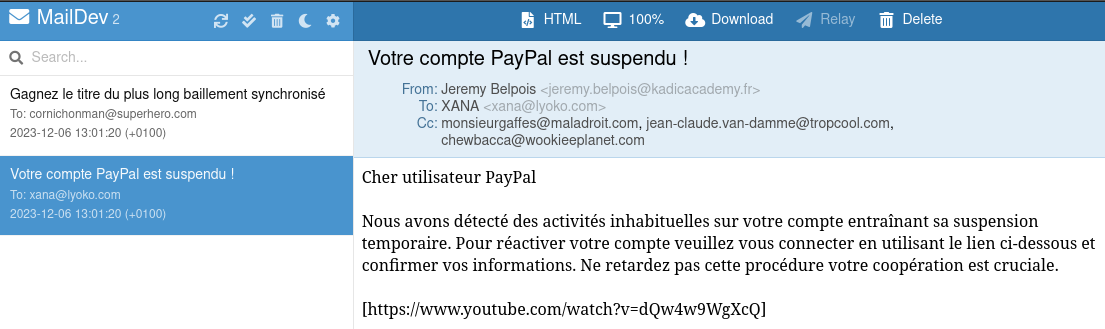
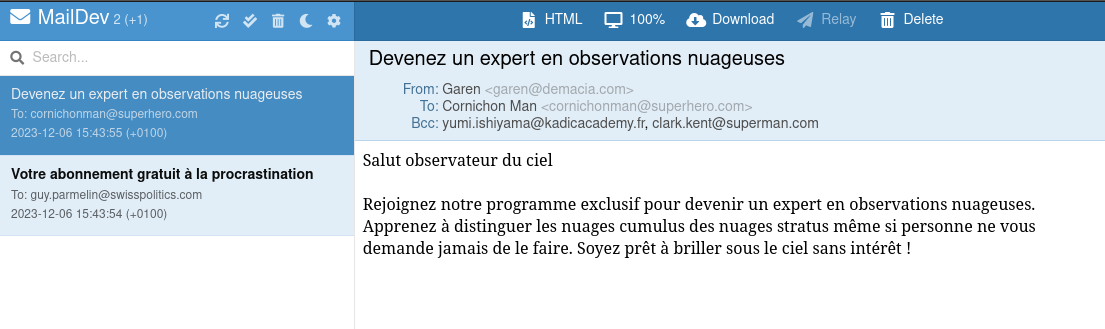
README final

diff --git a/README.md b/README.md
@@ -136,36 +136,28 @@ EHLO https://www.youtube.com/watch?v=dQw4w9WgXcQ
 250-PIPELINING
 250-8BITMIME
 250 SMTPUTF8
-MAIL FROM: <jeremy.belpois@kadicacademy.fr>
+MAIL FROM: <angelina.jolie@yahoo.com>
 
 250 Accepted
-RCPT TO: <xana@lyoko.com>
+RCPT TO: <guy.parmelin@swisspolitics.com>
 
 250 Accepted
-RCPT TO: <monsieurgaffes@maladroit.com>
-
-250 Accepted
-RCPT TO: <jean-claude.van-damme@tropcool.com>
-
-250 Accepted
-RCPT TO: <chewbacca@wookieeplanet.com>
+RCPT TO: <odd.della.robbia@kadicacademy.fr>
 
 250 Accepted
 DATA
 Content-Type: text/html; charset=UTF-8
-From: Jeremy Belpois <jeremy.belpois@kadicacademy.fr>
-To: XANA <xana@lyoko.com>
-CC: monsieurgaffes@maladroit.com
-CC: jean-claude.van-damme@tropcool.com
-CC: chewbacca@wookieeplanet.com
-Subject: Votre compte PayPal est suspendu !
+From: Angelina Jolie <angelina.jolie@yahoo.com>
+To: Guy Parmelin <guy.parmelin@swisspolitics.com>
+Subject: Votre abonnement gratuit à la procrastination
 
-Cher utilisateur PayPal<br><br>Nous avons détecté des activités inhabituelles sur votre compte entraînant sa suspension temporaire. Pour réactiver votre compte veuillez vous connecter en utilisant le lien ci-dessous et confirmer vos informations. Ne retardez pas cette procédure votre coopération est cruciale.<br><br>[https://www.youtube.com/watch?v=dQw4w9WgXcQ]
+Cher maître de la procrastination<br><br>Nous avons le plaisir de vous informer que vous avez été automatiquement inscrit à notre programme d'abonnement gratuit à la procrastination. Pour annuler veuillez ignorer ce message et reporter cette tâche à plus tard. Vous pouvez aussi ne rien faire c'est tout aussi bien.
 .
 
 354 End data with <CR><LF>.<CR><LF>
-250 Message queued as zKTJNalR
+250 Message queued as mumWLDZX
 QUIT
+
 220 704b82159354 ESMTP
 EHLO https://www.youtube.com/watch?v=dQw4w9WgXcQ
 
@@ -173,23 +165,29 @@ EHLO https://www.youtube.com/watch?v=dQw4w9WgXcQ
 250-PIPELINING
 250-8BITMIME
 250 SMTPUTF8
-MAIL FROM: <leonardo.dicaprio@hotmail.com>
+MAIL FROM: <garen@demacia.com>
 
 250 Accepted
 RCPT TO: <cornichonman@superhero.com>
 
 250 Accepted
+RCPT TO: <yumi.ishiyama@kadicacademy.fr>
+
+250 Accepted
+RCPT TO: <clark.kent@superman.com>
+
+250 Accepted
 DATA
 Content-Type: text/html; charset=UTF-8
-From: Leonardo DiCaprio <leonardo.dicaprio@hotmail.com>
+From: Garen <garen@demacia.com>
 To: Cornichon Man <cornichonman@superhero.com>
-Subject: Gagnez le titre du plus long baillement synchronisé
+Subject: Devenez un expert en observations nuageuses
 
-Félicitations bâilleur synchronisé<br><br>Participez à notre concours pour remporter le titre du plus long baillement synchronisé. Préparez-vous à bâiller en harmonie avec d'autres ennuyés du monde entier. Soyez prêt à étirer votre ennui jusqu'à des sommets soporifiques !
+Salut observateur du ciel<br><br>Rejoignez notre programme exclusif pour devenir un expert en observations nuageuses. Apprenez à distinguer les nuages cumulus des nuages stratus même si personne ne vous demande jamais de le faire. Soyez prêt à briller sous le ciel sans intérêt !
 .
 
 354 End data with <CR><LF>.<CR><LF>
-250 Message queued as mBOAUsj0
+250 Message queued as CzjmoSQZ
 QUIT
 
 Client: end
